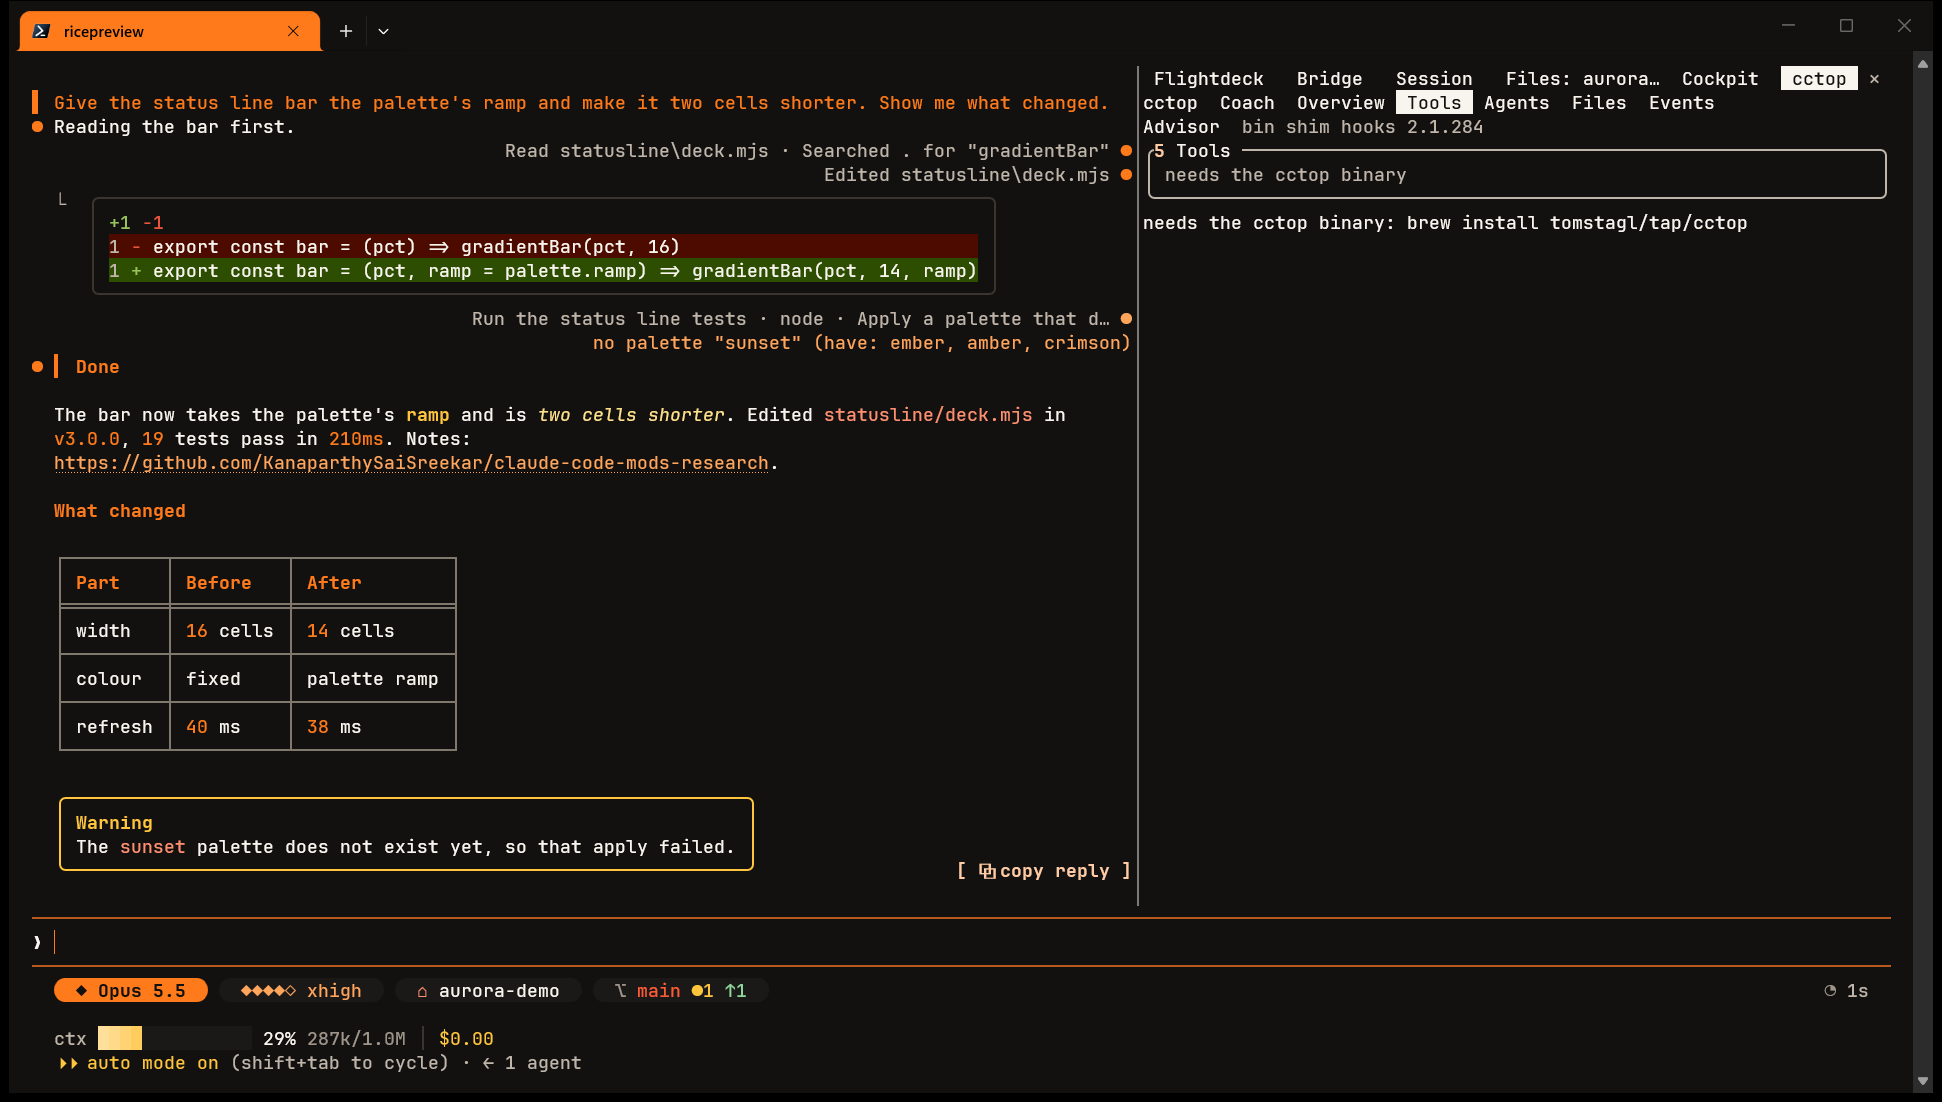
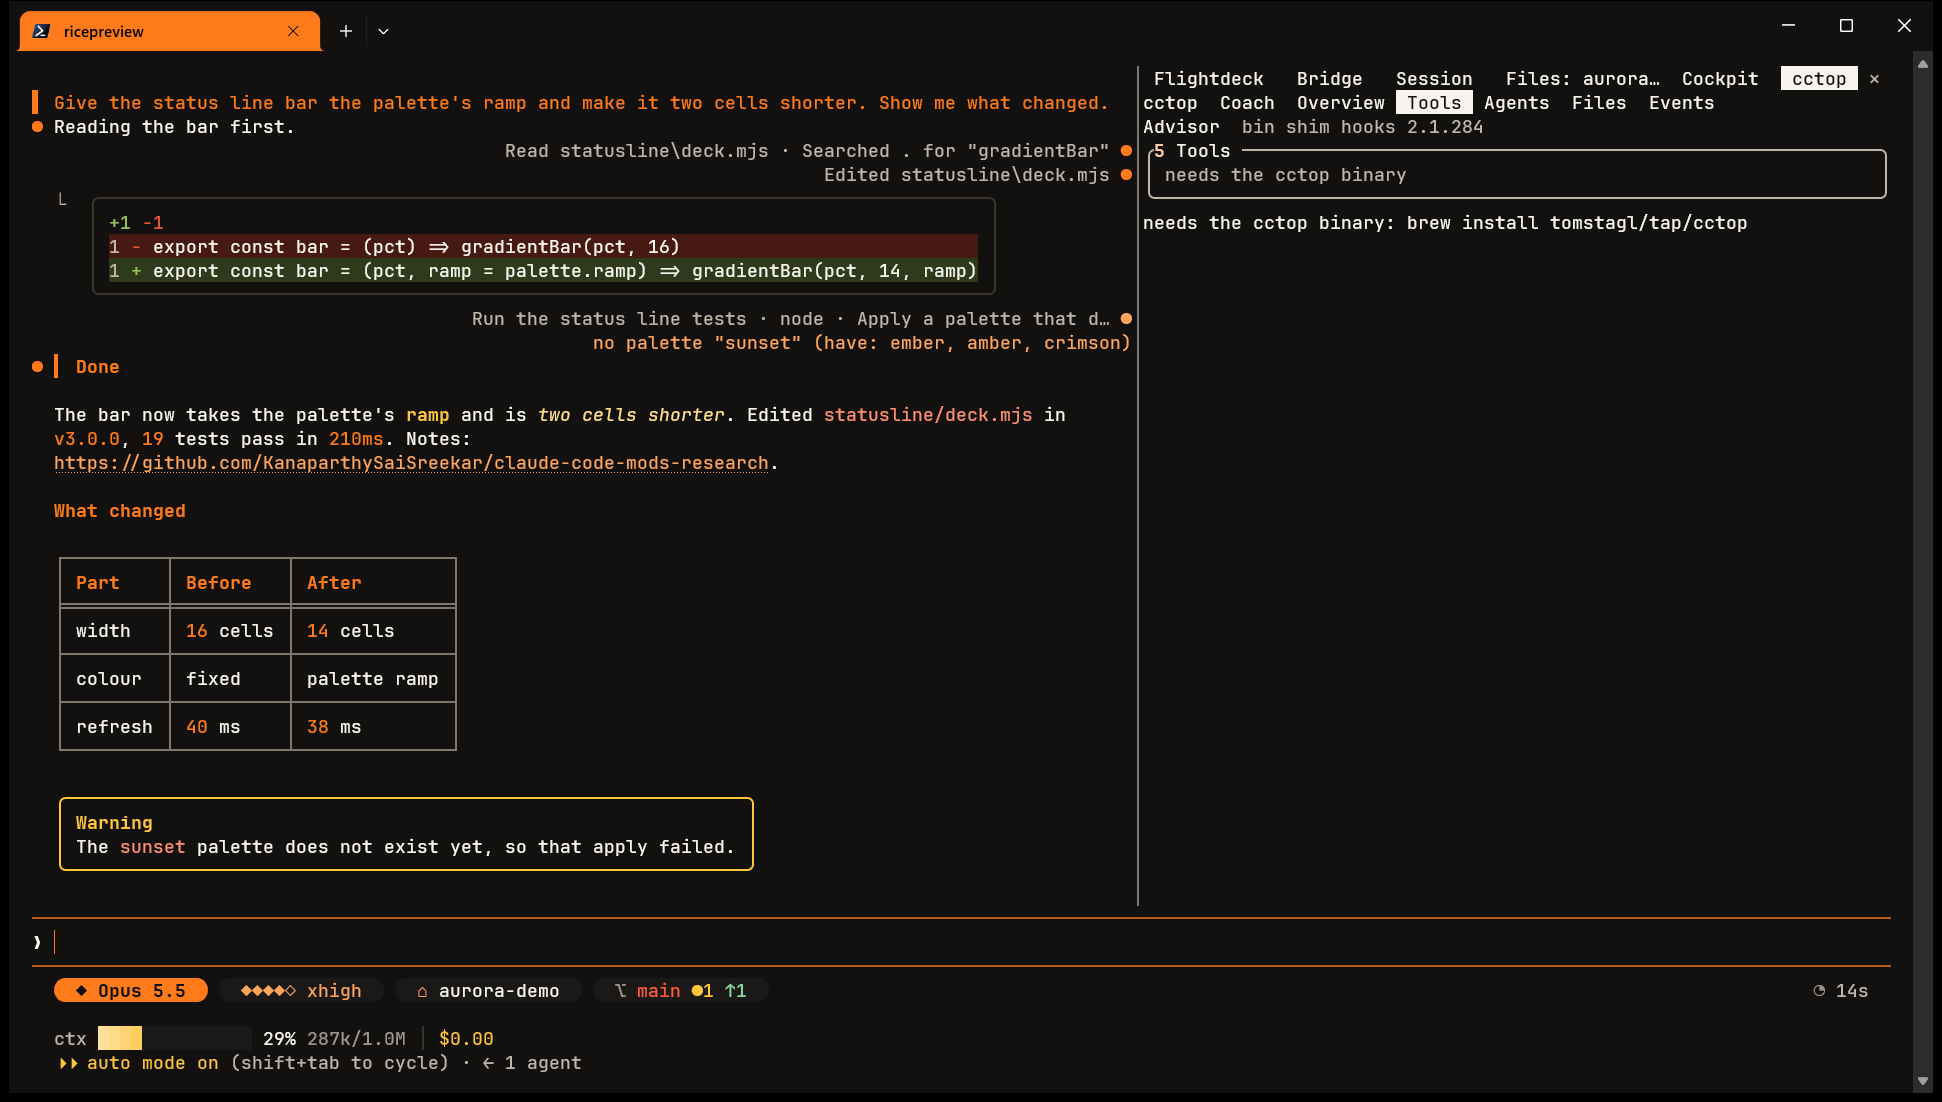
v7 final: the master build, verified as a restart loads it
- prismantis diffTint: color (new local option): diff tints mixed from the retro green and
  orange-red themselves; upstream turned them into their full hue, plain green and red fills
- The mods Claude Code loads are cached copies that only refresh on a version change, so round 2's
  patches had not reached them: patched mods now carry local versions (patches/local-versions.patch)
  and every enabled mod's cached copy was checked equal to the repo
- background.mjs writes (and backs up) only files that differ; a dry run on the live setup says nothing
- The two v7 applies folded into one, so a single `rice.mjs revert` goes back to plain v2
- Screenshot retaken exactly as a restart starts Claude Code; README marks v7 as the master build;
  preferences.md notes it
- Tested: v2 52, v3 7, v4 5, v5 5, v6 3, v7 8; prismantis 562, cockpit 15, aurora-bridge 8,
  flightdeck 28, filetree 64; paneline and cctop fail only what upstream fails on Windows;
  all seven mods pass claude plugin validate

Changed region(s): [[0.0618, 0.216, 0.4943, 0.2777], [0.4943, 0.7713, 0.587, 0.8022], [0.9269, 0.8947, 0.9578, 0.9256]]

diff --git a/v7-win/README.md b/v7-win/README.md
@@ -1,14 +1,18 @@
 # v7-win: Six tabs
 
+**v7 is the master build:** it carries every preference in [`preferences.md`](../preferences.md) (finalised 2026-10-17, tag
+`v7.2-win`; tweaks still to come).
+
 v7 puts six right-hand panes side by side as tabs, on the v2 Ember rice (palette, theme, status line). Claude Code draws every
 open pane as a tab of one sidebar ("With several panes open, each gets a tab that shows its title",
 [mods interface docs](https://code.claude.com/docs/en/plugins/mods/interface)), so v7 switches on six pane mods and makes each one
 open its pane on start. Since round 2, [prismantis](https://github.com/NahumLitvin/prismantis) draws the chat (instead of skins),
 with every tool call as one dim row on the right and nothing under it.
 
-![Claude Code 2.1.302 at 210 columns. Left: the prompt with an orange bar, tool calls as dim rows on the right ("Read statusline\deck.mjs · Searched . for gradientBar", "Edited statusline\deck.mjs", "Run the status line tests · node · Apply a palette…" with only the failure's last line under it), the edit's diff card, an orange "Done" heading, a table and a warning. Right: the tab row Flightdeck, Bridge, Session, Files, Cockpit, cctop. One near-black (#121110) behind both](docs/screenshots/six-tabs-prismantis.png)
+![Claude Code 2.1.302 at 210 columns. Left: the prompt with an orange bar, tool calls as dim rows on the right ("Read statusline\deck.mjs · Searched . for gradientBar", "Edited statusline\deck.mjs", "Run the status line tests · node · Apply a palette…" with only the failure's last line under it), the edit's diff card tinted brown-red and olive, an orange "Done" heading, a table and a warning. Right: the tab row Flightdeck, Bridge, Session, Files, Cockpit, cctop. One near-black (#121110) behind both](docs/screenshots/six-tabs-prismantis.png)
 
-*The real Claude Code resuming a synthetic demo session with v7 live (no model turn). Round 1 looked like [this](docs/screenshots/six-tabs.png).*
+*The real Claude Code resuming a synthetic demo session (no model turn), started exactly as a restart starts it: the live
+`settings.json` and the mods' cached copies, each checked equal to the repo. Round 1 looked like [this](docs/screenshots/six-tabs.png).*
 
 | Tab | Mod | What it shows | Where from |
 |---|---|---|---|
@@ -32,7 +36,7 @@ default is upstream's behaviour; v7 turns it on. Diffs in [`patches/`](patches/)
 | The chat | skins (v2's renderer) | prismantis in the Ember preset (as v3 had it): `▍` orange headings, an accent bar on your prompts, tool rows dim on the right (`toolStyle: chat`) |
 | prismantis tool output | `full`: what Claude Code shows; `quiet`: plain-words rows, but a shell command still shows its first lines | `toolOutput: rows` (new): nothing under a call that worked, in a group too; a failure keeps its last line, an edit keeps its diff, Ctrl+O on a group shows everything |
 | prismantis copy | a toast, which Claude Code always labels with the mod's name ("prismantis: Copied") | `copyFeedback: button` (new): the button itself reads `✓ copied` for 1.5 s; a failed copy still toasts its reason |
-| prismantis diffs | the Ember preset's mint and red | retro green `#98C25B` and the Ember orange-red `#E8553C` |
+| prismantis diffs | the Ember preset's mint and red, and the tint behind a changed line mixed from the colour's full hue (any green tints as pure green) | retro green `#98C25B` and the Ember orange-red `#E8553C`, and `diffTint: color` (new): the tint is mixed from those colours themselves, olive `#2E3A1B` and brown-red `#461A12`, code text still at 4.5:1 |
 | paneline | restyles every message, tool row and the band above the prompt | `chat` option (new), off: only the pane |
 | cockpit | a band above the prompt whenever its panel is not the tab in front, and a `◆ ctx · 5h · tools` status line (both showing `ctx —` until the first reply of a new process) | `band` and `statusLine` options (new), off: only the panel |
 | cctop | opens only on `/cctop`; reads `HOME` (absent on Windows, so a "self-check failed" line every start); a "loaded" line in the transcript every start | `openOnStart` and `announce` options (new), a `USERPROFILE` fallback; the "loaded" line goes to the debug log |
@@ -47,7 +51,7 @@ The kit (`v3-win/tools/kit.mjs`) gained a `settings` field for top-level `settin
 ```
 node v7-win/tools/rice.mjs apply ember     # switch it all on (settings.json backed up first)
 node v7-win/tools/rice.mjs revert          # put settings.json back as it was
-node v7-win/tools/background.mjs ember     # after a palette change: rebuild theme, terminal scheme and deck palette (backed up)
+node v7-win/tools/background.mjs ember     # after a palette change: rebuild theme, terminal scheme and deck palette (only what differs, backed up)
 ```
 
 Restart Claude Code after apply or revert. The panes dock beside the chat in the fullscreen layout from 110 columns (Bridge from
@@ -62,7 +66,14 @@ it, put back `"bg": "#0A0908"` in `v2-win/palette/palettes.json` and run `backgr
 - **cockpit's guard is on by default.** Before a Bash command it calls risky it asks Run it / Block it. `/cockpit-guard off` turns it
   off. Its panel shows `ctx —` until the first reply of a newly started Claude Code: Claude Code only reports context after a reply.
 - **Edits keep their diff card**; everything else is a single row.
-- **Tab order** follows the order the mods open their panes at start, which v7 does not control.
+- **Tab order** follows the order the mods open their panes at start, which v7 does not control, and it changes between starts.
+  The pane opened last is the one in front; cctop restores its pane last, so it is in front at start. A mod cannot open a pane
+  behind the others (`$.ui.open` has no such option).
+- **Patched mods need a new version to load.** Claude Code runs each mod from a copy in
+  `~/.claude/plugins/cache/kasasree-mods/<mod>/<version>/`, and `claude plugin update` copies again only when the manifest's
+  version changes. Round 2's patches had not reached those copies until the final pass gave each patched mod a local version
+  (`-rice.N`). After a patch: bump the version, `claude plugin marketplace update kasasree-mods`, then
+  `claude plugin update <mod>@kasasree-mods`, and restart.
 
 ## Is it safe
 
@@ -72,12 +83,18 @@ Windows PATH, so it fails quietly), `du`/`find` (filetree), and `cctop` (absent,
 
 ## Verified, and not
 
-- `node --test v7-win/tests/*.test.mjs`: 8/8 (every mod on and told to open, prismantis replacing skins with rows and button copy,
-  cockpit panel-only, plain spinner words, every option declared in its mod's manifest, apply and revert byte-exact and key-wise).
-- prismantis 559/559 (8 new), cockpit 15/15 (3 new), aurora-bridge 8/8, v2 52/52, v3 to v6 kit tests still pass.
-- paneline: the new `chat-option.test.tsx` 3/3; the suite fails the same 28 tests on Windows as unmodified upstream.
+Final pass, 2026-10-17:
+
+- `node --test v7-win/tests/*.test.mjs`: 8/8 (every mod on and told to open, prismantis replacing skins with rows, button copy
+  and retro diff tints, cockpit panel-only, plain spinner words, every option declared in its mod's manifest, apply and revert
+  byte-exact and key-wise). v2 52/52, v3 7/7, v4 5/5, v5 5/5, v6 3/3.
+- `claude plugin validate`: all seven mods pass. `claude plugin test`: prismantis 562/562 (11 new), cockpit 15/15 (3 new),
+  aurora-bridge 8/8, flightdeck 28/28, filetree 64/64.
+- paneline 848/876: the new `chat-option.test.tsx` 3/3; the 28 failures are the ones unmodified upstream has on Windows.
 - cctop: upstream's harness (outside `plugin/`) with three new tests, 128/130; the same 2 failures as upstream (CRLF snapshots).
-- Live: the screenshot above, at 210 columns. Not seen yet: a real turn with this setup, and the `✓ copied` flip under a real click.
+- Live: `rice.mjs apply ember --dry-run` and `background.mjs ember --dry-run` both report nothing to change; every enabled mod's
+  cached copy equals the repo; the screenshot above, at 210 columns. Not seen yet: a real turn with this setup, and the
+  `✓ copied` flip under a real click.
 
 ## Layout
 

diff --git a/README.md b/README.md
@@ -13,7 +13,7 @@ Deep-dive research into **Claude Code mods** and everything the community does t
   - [`v4-win/`](v4-win/) **Firstmate Calm:** Calm from [Firstmate](https://github.com/kunchenguid/firstmate) turns the spinner into a sailboat and hides tool rows so the transcript is just the conversation. Forked so it runs at all on a normal Claude Code (upstream waits for a pre-launch env flag), with font-safe sails, the palette, no file access, and loaded before skins (mods load in `enabledPlugins` order, a finding of this version). Also fixes lavender inline code in skins alerts. Tagged `v4-win`.
   - [`v5-win/`](v5-win/) **Ember meters:** [context-bar and usage-meter](https://github.com/hamzafer/claude-code-mods) share one row above the prompt, in warm palette colours (the meter's bars along the palette ramp), and the status line drops to its identity row so each number shows once. Tagged `v5-win`.
   - [`v6-win/`](v6-win/) **Breathing ember:** [Mindful-Claude](https://github.com/halluton/Mindful-Claude) guided breathing above the prompt while Claude works; the picture glows along the palette with the breath, in a 5-row band, with font-safe glyphs and an upstream test suite that now actually runs. Tagged `v6-win`.
-- **Panels, side by side:** [`v7-win/`](v7-win/) **Six tabs:** six right-hand panes as tabs of one sidebar on the v2 Ember rice: flightdeck, [paneline](https://github.com/markneonin/paneline), filetree, the Bridge, [cockpit](https://github.com/drkokorev/cockpit-for-claude) and [cctop](https://github.com/tomstagl/cctop), the three new ones pinned and patched (paneline's chat restyle made optional, cctop opens on start and finds home on Windows). Tagged `v7-win`.
+- **The master build:** [`v7-win/`](v7-win/) **Six tabs** carries every preference in [`preferences.md`](preferences.md). Six right-hand panes as tabs of one sidebar on the v2 Ember rice: flightdeck, [paneline](https://github.com/markneonin/paneline), filetree, the Bridge, [cockpit](https://github.com/drkokorev/cockpit-for-claude) and [cctop](https://github.com/tomstagl/cctop), the three new ones pinned and patched (paneline's chat restyle made optional, cctop opens on start and finds home on Windows, cockpit draws only its panel). prismantis draws the chat: orange `▍` headings, every tool call one dim row on the right with nothing under it, `✓ copied` on the copy button instead of a toast that names the mod, diffs tinted with retro green and orange-red. Plain spinner words, and one near-black (`#121110`) behind the chat and the panel. Tagged `v7-win` (six tabs), `v7.1-win` (round 2) and `v7.2-win` (the finalised master).
 
 ## TL;DR
 

diff --git a/preferences.md b/preferences.md
@@ -27,6 +27,7 @@ What I liked in each version, noted as I try them. Each version is tried **on it
 - Nothing to keep. Not liked at all.
 
 ## v7 (six right-hand panes as tabs, on v2 Ember; built to order, not a complete swap)
+- **The master version**, with all my preferences (2026-10-17). Not final yet: tweaks to come.
 - Asked for: six tabs (cctop, cockpit, paneline, filetree, flightdeck and v2's Bridge, "the waves one").
 - Not liked: cockpit's band and status line repeating the context reading under and above the prompt (and showing `ctx —`). The v2 status line is the one that is right.
 - Liked: the **black of the right panel** (`#121110`, not pure black). The terminal now uses it too.
